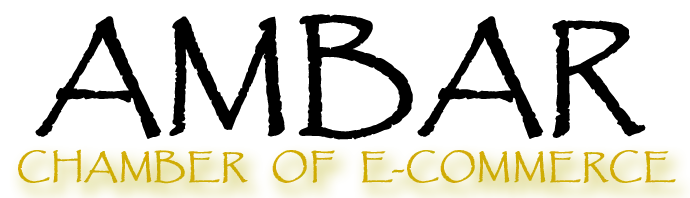
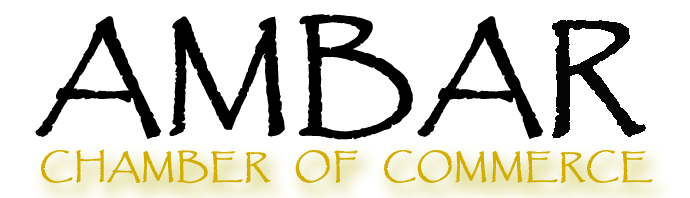
join design done

diff --git a/chamber/join.html b/chamber/join.html
@@ -38,7 +38,7 @@
     <header>
         <div class="brand">
             <img src="images/chamber-logo.webp" alt="Company logo" loading="lazy" width="50" class="logo">
-            <img src="images/font-chamber.webp" alt="Ambar, Chamber Of E-commerce" loading="lazy" width="200">
+            <img src="images/font-chamber-dark.webp" alt="Ambar, Chamber Of E-commerce" loading="lazy" width="200">
         </div>
 
         <div class="head-ctrl">
@@ -76,9 +76,9 @@
                                 placeholder="Tech Solutions Inc." required autocapitalize="words"></label>
                         <label>Organizational title<span class="required"> *</span><input type="text" name="org"
                                 placeholder="CEO" required></label>
-                        <label>Organization description<span class="required"> *</span><textarea name="description"
+                        <label>Organization description<textarea name="description"
                                 placeholder="We specialize in handcrafted jewelry for small gift shop stores."
-                                required autocapitalize="sentences"></textarea></label>
+                                 autocapitalize="sentences"></textarea></label>
                         <label>Membership level<span class="required"> *</span>
                             <select name="membership" id="membership-level" required>
                                 <option value="" disabled selected>Select a membership level</option>
@@ -96,8 +96,36 @@
                 </section>
 
                 <section class="levels-cont">
-                    <dialog class="mb-info">
+                    <dialog class="mb-info" id="modal">
+                        <h3>Gold Membership</h3>
+                        <p>Pricing: $450 per year.</p>
+                        <p>Gold members enjoy premium benefits, including exclusive networking events, priority support, and more.</p>
+                        <p>Additional perks include access to VIP-only events and a dedicated account manager.</p>
+                        <button id="close">Close</button>
+                    </dialog>
 
+                    <dialog class="mb-info" id="modal">
+                        <h3>Silver Membership</h3>
+                        <p>Pricing: $275 per year.</p>
+                        <p>Silver members receive access to standard benefits, including community events and support services.</p>
+                        <p>Additional perks include discounted event tickets and promotional opportunities.</p>
+                        <button id="close">Close</button>
+                    </dialog>
+
+                    <dialog class="mb-info" id="modal">
+                        <h3>Bronze Membership</h3>
+                        <p>Pricing: $150 per year.</p>
+                        <p>Bronze members gain access to basic benefits, perfect for small businesses and startups.</p>
+                        <p>Additional perks include access to online resources and a quarterly newsletter.</p>
+                        <button id="close">Close</button>
+                    </dialog>
+
+                    <dialog class="mb-info" id="modal">
+                        <h3>Non-Profit Membership</h3>
+                        <p>Pricing: Free.</p>
+                        <p>Non-Profit members receive tailored benefits to support their organizational goals and community impact.</p>
+                        <p>Additional perks include grant-writing assistance and community outreach support.</p>
+                        <button id="close">Close</button>
                     </dialog>
 
                     <h2>Membership Levels</h2>
@@ -112,7 +140,7 @@
                         <div class="cat-view">
                             <h4>Silver </h4>
                             <img src="images/silver.webp" alt="Silver membership" loading="lazy" width="50">
-                            <button id="silver_view">View datails</button>
+                            <button id="gold_view">View datails</button>
                         </div>
 
                         <div class="cat-view">

diff --git a/chamber/styles/large.css b/chamber/styles/large.css
@@ -3,7 +3,7 @@
         grid-template-columns: auto auto 50px;
         place-items: center;
     }
-
+    
     #menu li a {
         color: var(--font1-color);
     }
@@ -12,11 +12,22 @@
         background-color: transparent;
     }
 
-    .form-level-cont {
-        grid-template-columns: 1fr .8fr;
-        gap: 20px;
+    .mb-info{
+        background-color: red;
+        box-shadow: 5px 8px 15px 3px var(--under3-color);
+        border-radius: 5px;
+        padding: 20px 30px;
+    }
+    
+    :modal{
+        width: 50%;
+        height: 50%;
     }
 
+    .modal::backdrop {
+        background-color: rgba(0, 0, 0, 0.678);
+    }
+    
     #hero img {
         height: 600px;
         object-fit: cover;
@@ -36,7 +47,7 @@
     .main-section {
         display: grid;
         grid-template-columns: 3fr 1fr;
-        grid-template-rows: 1fr 1fr;
+        grid-template-rows: auto auto;
         gap: 20px;
     }
 
@@ -106,7 +117,7 @@
     #menu ul li a {
         font-size: var(--medium);
     }
-
+    
     #menu-toggler {
         display: none;
     }
@@ -114,24 +125,35 @@
     .s-info {
         grid-area: 1/1/2/2;
     }
-
+    
     .n-icons {
         grid-area: 1/2/2/3;
     }
-
+    
     .p-info {
         grid-area: 1/3/2/4;
         text-align: left;
     }
 
+    .form-cont{
+        border-radius: 3px;
+        padding: 20px 30px;
+        box-shadow: 5px 8px 15px 3px var(--under3-color);
+    }
+
+    .form-level-cont {
+        grid-template-columns: 1fr .8fr;
+        gap: 20px;
+    }
+    
     .levels-cont {
         order: 0;
     }
 
     .cat-view:hover {
-        box-shadow: 4px 4px 10px var(--under2-color);
+        box-shadow: 5px 8px 15px 3px var(--under3-color);
     }
-
+    
     .membership {
         padding: 0 20px;
         gap: 20px;

diff --git a/chamber/styles/small.css b/chamber/styles/small.css
@@ -205,7 +205,7 @@ main h1 {
     position: absolute;
     width: 100%;
     background-color: #fabf0ebe;
-    border-radius: 5px;
+    border-radius: 6px;
     padding:20px 30px;
     top:20%;
     left:0;
@@ -221,12 +221,12 @@ main h1 {
     justify-self: center;
     background-color: transparent;  
     border: 1px solid var(--secundary-color);
-    border-radius: 8px;
+    border-radius: 3px;
     color:var(--secundary-color);
     font-size: var(--medium);
     font-weight: 700;
     cursor: pointer;
-    transition: .5s;
+    transition: .3s ease-out;
 }
 
 .action button:focus,
@@ -396,18 +396,19 @@ main h1 {
 
 .tile {
     display: grid;
-    grid-template-columns: 210px 1fr;
+    grid-template-columns: 250px 1fr;
     width: 100%;
     padding: 10px;
-    border-radius: 6px;
-    border: 1px solid var(--highlight2-color);
+    border-radius: 3px;
+    /* border: 1px solid var(--highlight2-color); */
     transition: .3s ease-out;
 }
 
 .tile:hover {
     background-color: var(--main-color);
-    box-shadow: 1px 2px 3px var(--highlight2-color);
+    box-shadow: 6px 6px 15px 1px var(--under3-color);
     color: var(--font1-color);
+    transform: scale(1.01);
 }
 
 .tile h2 {
@@ -480,17 +481,15 @@ label textarea {
     font-size: var(--normal);
     border-radius: 3px;
     border: 1px solid var(--secundary-color);
-    background-color: var(--under-color);
+    background-color: var(--main-color);
 }
 
 label input:invalid,
-label select:invalid,
-label textarea:invalid {
+label select:invalid {
     border-left: 3px solid red;
 }
 label input:valid,
-label select:valid,
-label textarea:valid {
+label select:valid {
     border: 1px solid green;
 }
 

diff --git a/chamber/scripts/main.js b/chamber/scripts/main.js
@@ -1,6 +1,17 @@
 import { viewChanger, menuToggler, schemaColorChanger } from "./dom-handler.mjs";
 // import {  } from "./scripts/data.mjs"; // this module imports the data response to be consumed
 
+const elmodal = document.querySelector("#modal");
+const elmodalClose = document.querySelector("#close");
+const elmodalOpen = document.querySelector("#gold_view");
+
+elmodalClose.addEventListener("click", () => {
+    elmodal.close();
+});
+elmodalOpen.addEventListener("click", () => {
+    elmodal.showModal();
+})
+
 // this module will be migrated to the data.mjs, such file will be handling the fetch request for apis, json, etc
 async function fetchData() {
     const response = await fetch("data/members.json");
